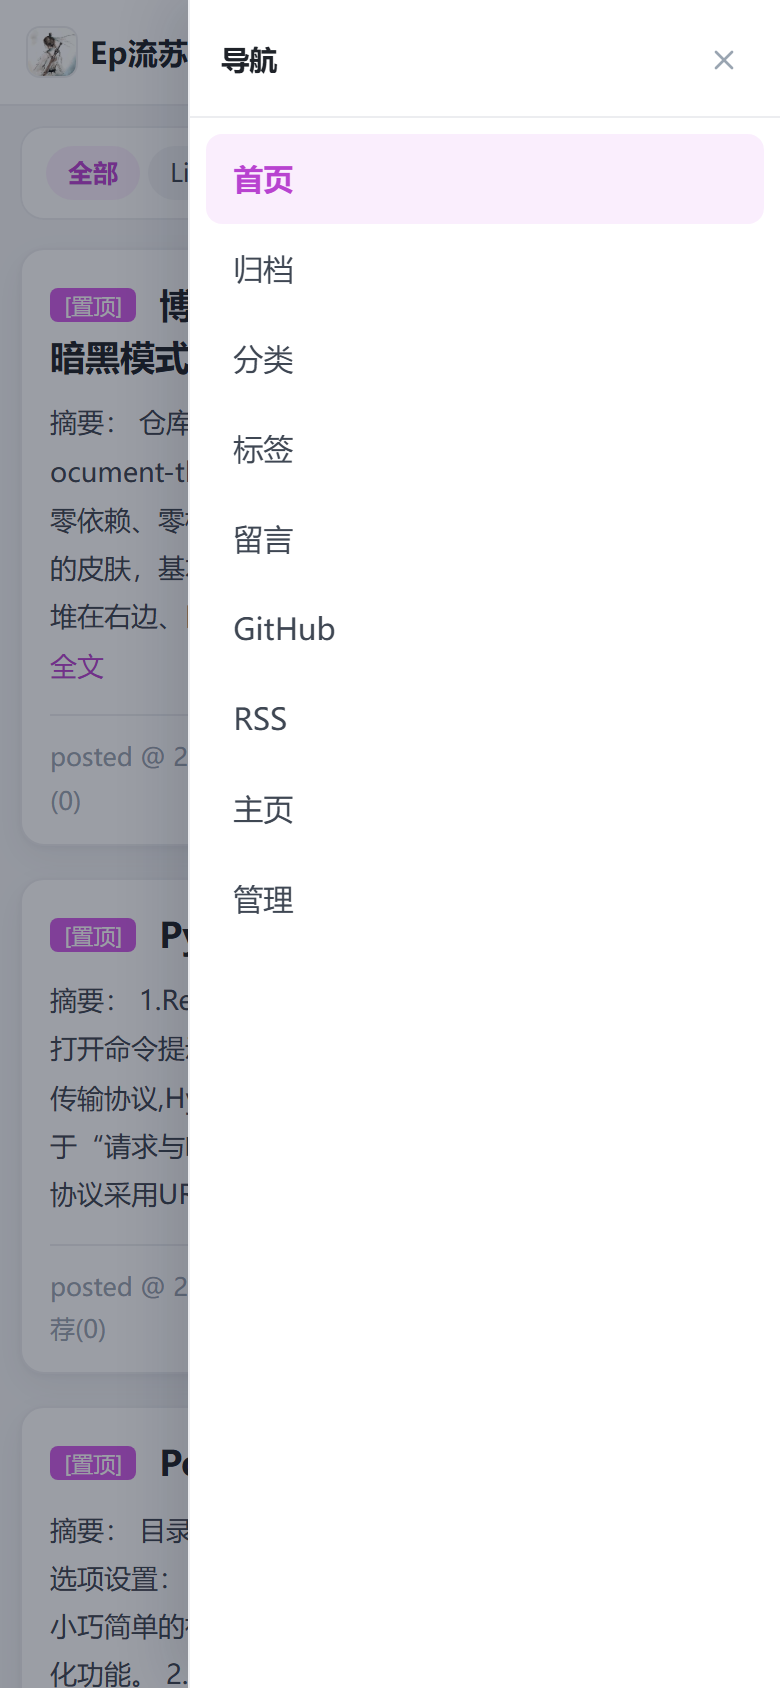
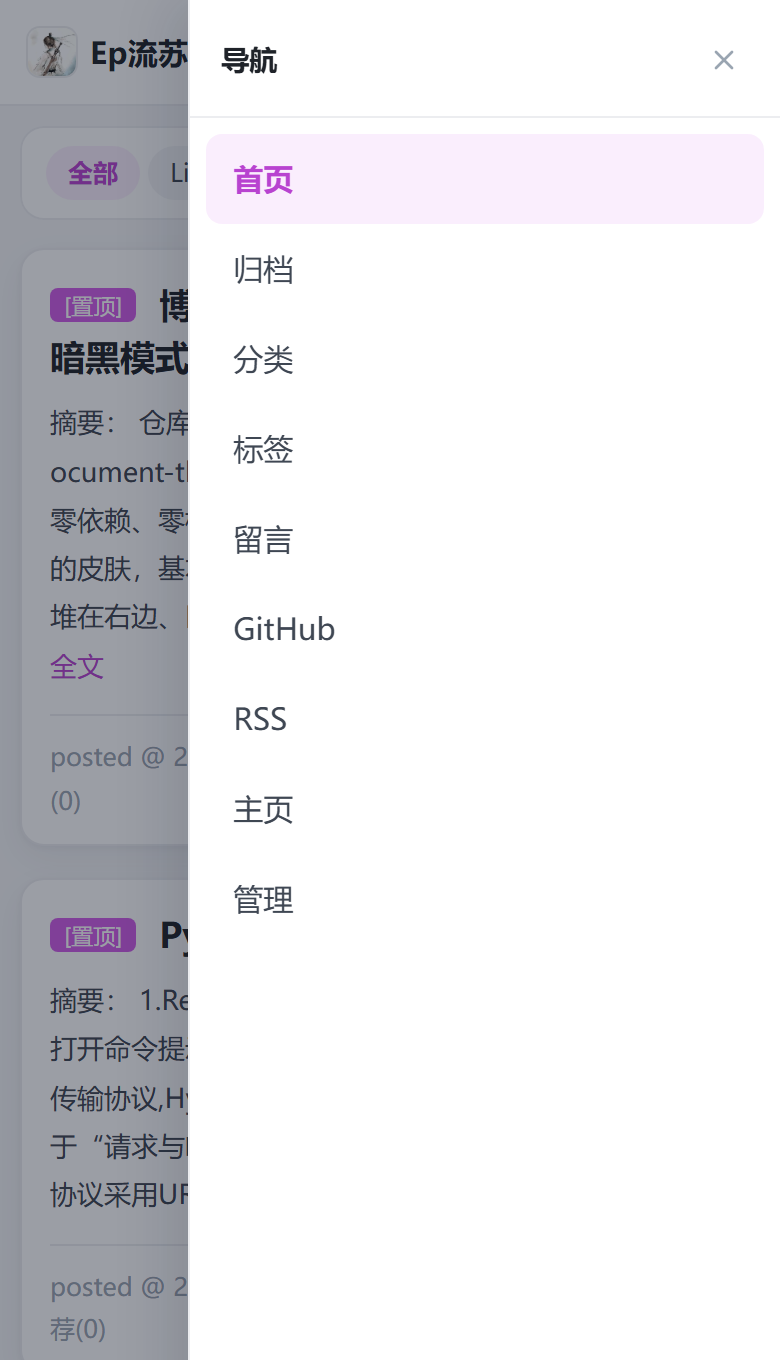
docs(images): 移动端配图裁短并限宽，不再占一整屏
根因是两件事叠加：手机截图本身 780x1688（比例 2.16），文档里又没限宽 ——
README 表格把图撑到每张 415 宽（高约 900），文章正文 700 宽（高约 1515）。

- 截图改 clip 680 CSS 高（视口仍是 390x844，布局不变），产出 780x1360、两张等高；
  抽屉图原来底部 40% 是纯白，一并去掉；体积 266->204 KB、107->87 KB
- README 手机段：表格改居中双图 width=280（高 900 -> 488）
- 主题文章手机段：补一张列表图、两张并排 width=260（高 1515 -> 453）；
  图源 gcore@v7.28 换成 cdn@master（gcore 已弃用，且不换 URL 读不到裁后的图）
- shot-docs.js 同步 clip 口径，避免下次重截又变回长图
- 开发指南补裁剪口径说明

diff --git a/_dev-tools/shot-docs.js b/_dev-tools/shot-docs.js
@@ -7,8 +7,8 @@
  *   home-v7.png         首页浅色（三栏 + 顶部分类筛选条）
  *   post-v7.png         文章页浅色（左栏 H1–H4 目录 + 标题下分类标签）
  *   home-v7-dark.png    首页暗色
- *   mobile-v7.png       手机列表（390px）
- *   mobile-menu-v7.png  手机导航抽屉（同上，展开态）
+ *   mobile-v7.png       手机列表（390px，裁到两条卡片：780x1360）
+ *   mobile-menu-v7.png  手机导航抽屉（同上，展开态，同样裁到 780x1360 与列表等高）
  *
  * 为什么不用线上现成那份 js / CSS：
  *   线上「页面定制 CSS」字段与兜底 js 往往落后于仓库（发版要手工贴字段、上传文件），
@@ -112,7 +112,18 @@ async function ready(page) {
   await routeLocalBundle(m);
   await m.goto(SITE, { waitUntil: 'domcontentloaded', timeout: 60000 });
   await ready(m);
-  await m.screenshot({ path: path.join(OUT, 'mobile-v7.png') });
+
+  /* 只截「能说清这件事」的高度（2026-11-18：README / 文章里这两张竖着太占位）。
+     视口仍是 390x844 的真实手机尺寸 —— 布局、断点、行宽都不变，只把下面用不上的部分裁掉：
+       · 列表 680 CSS px：筛选条 + 两条完整卡片，正好停在第二条卡片下边界；
+       · 抽屉同样 680：菜单「管理」在 y≈470 结束，再往下是整屏白底（原图有 40% 是这个）。
+     两张等高（780x1360）才好并排 —— 等高比「裁到最紧」重要，差一截会显得散。
+     宽高比从 2.16 降到 1.74。
+     改这两个数之前先量一下：列表页第二条卡片的下边界在 CSS y≈680。 */
+  const CLIP_LIST = { x: 0, y: 0, width: 390, height: 680 };
+  const CLIP_MENU = { x: 0, y: 0, width: 390, height: 680 };
+
+  await m.screenshot({ path: path.join(OUT, 'mobile-v7.png'), clip: CLIP_LIST });
   console.log('  ✓ mobile-v7.png');
 
   await m.evaluate(() => {
@@ -120,7 +131,7 @@ async function ready(page) {
     if (btn) btn.click();
   });
   await m.waitForTimeout(500);
-  await m.screenshot({ path: path.join(OUT, 'mobile-menu-v7.png') });
+  await m.screenshot({ path: path.join(OUT, 'mobile-menu-v7.png'), clip: CLIP_MENU });
   console.log('  ✓ mobile-menu-v7.png');
   await mctx.close();
 

diff --git a/docs/promo-post.md b/docs/promo-post.md
@@ -2,25 +2,29 @@
 
 > 仓库：<https://github.com/zsy0216/cnblogs-document-theme>
 > 技术栈：纯 CSS（Grid）+ 原生 JS，零依赖、零构建、零后端
-> 当前版本：v7.28，MIT
+> 当前版本：v7.36，MIT
 
 ## 长什么样
 
 **首页**：左中右三栏，左边文章列表，中间文章卡片，右边公告和常用链接。列表顶上有一行分类筛选（`全部` + 每个分类及其篇数），点一下进对应分类页。
 
-![首页效果](https://gcore.jsdelivr.net/gh/zsy0216/cnblogs-document-theme@v7.28/docs/images/home-v7.png)
+![首页效果](https://cdn.jsdelivr.net/gh/zsy0216/cnblogs-document-theme@master/docs/images/home-v7.png)
 
 **文章页**：左边正文 H1–H4 自动生成的目录，右边卡片式侧栏，正文独占中栏；标题下面一行是这篇文章的分类和标签。
 
-![文章页效果](https://gcore.jsdelivr.net/gh/zsy0216/cnblogs-document-theme@v7.28/docs/images/post-v7.png)
+![文章页效果](https://cdn.jsdelivr.net/gh/zsy0216/cnblogs-document-theme@master/docs/images/post-v7.png)
 
 **暗色模式**：配色对齐 GitHub Dark —— 底色 `#0d1117`、卡片 `#161b22`、描边 `#30363d`、正文 `#c9d1d9`。右上角 🌙 一键切换，状态存本地，首次访问跟随系统偏好。
 
-![暗色首页](https://gcore.jsdelivr.net/gh/zsy0216/cnblogs-document-theme@v7.28/docs/images/home-v7-dark.png)
+![暗色首页](https://cdn.jsdelivr.net/gh/zsy0216/cnblogs-document-theme@master/docs/images/home-v7-dark.png)
 
 **手机**：断点以下收成单栏，顶栏换成汉堡按钮 + 右侧抽屉，条目和桌面菜单同源。
 
-![手机导航](https://gcore.jsdelivr.net/gh/zsy0216/cnblogs-document-theme@v7.28/docs/images/mobile-menu-v7.png)
+<p align="center">
+  <img src="https://cdn.jsdelivr.net/gh/zsy0216/cnblogs-document-theme@master/docs/images/mobile-v7.png?d=20261118" width="260" alt="手机端文章列表" />
+  &nbsp;&nbsp;
+  <img src="https://cdn.jsdelivr.net/gh/zsy0216/cnblogs-document-theme@master/docs/images/mobile-menu-v7.png?d=20261118" width="260" alt="手机端导航抽屉" />
+</p>
 
 ## 功能
 

diff --git a/docs/开发指南.md b/docs/开发指南.md
@@ -221,3 +221,7 @@ curl https://purge.jsdelivr.net/gh/zsy0216/cnblogs-document-theme@master/css/the
 （首页浅色 / 文章页 / 首页暗色 / 手机列表 / 手机抽屉）。脚本把 jsdelivr 请求拦下来换成本地
 `dist/document-theme.js`、再补一份本地 `theme-v7.min.css`，所以截出来是**当前工作区**的样子，
 不受线上字段还没更新影响 —— 否则拍到的永远是上一版。
+
+手机那两张用 `clip` 裁到 680 CSS 高（两张都是 780x1360，等高才好并排），不是整屏 844。
+原因：整屏竖图在 README 表格和文章正文里会占掉一整屏还多，读者得滚两下才翻过去；
+裁到「两条卡片 / 菜单结束」既有信息量又不占版面。改这两个数前先量卡片下边界。

diff --git a/README.md b/README.md
@@ -26,9 +26,11 @@
 
 手机（断点以下汉堡 + 右侧抽屉，条目与桌面菜单同源）：
 
-| 列表 | 导航抽屉 |
-|:---:|:---:|
-| ![手机列表](docs/images/mobile-v7.png) | ![手机导航](docs/images/mobile-menu-v7.png) |
+<p align="center">
+  <img src="docs/images/mobile-v7.png" width="280" alt="手机端文章列表" />
+  &nbsp;&nbsp;&nbsp;&nbsp;
+  <img src="docs/images/mobile-menu-v7.png" width="280" alt="手机端导航抽屉" />
+</p>
 
 ## 谁在用
 
